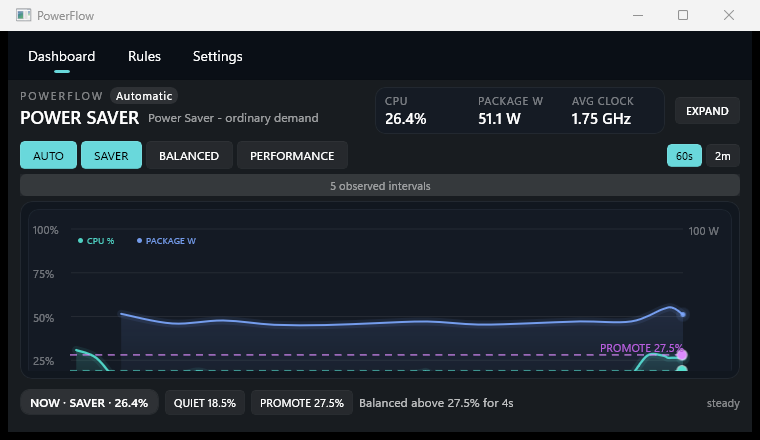
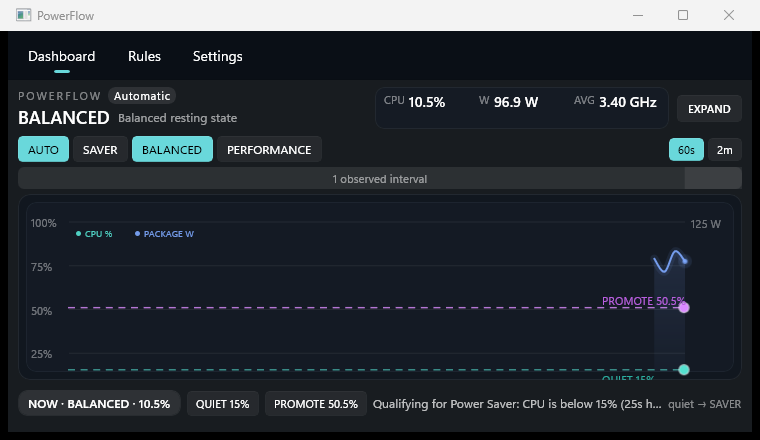
docs: show PowerFlow popup and fullscreen cockpit

diff --git a/docs/acceptance/reference-host-acceptance.md b/docs/acceptance/reference-host-acceptance.md
@@ -1,98 +1,137 @@
-# reference-host acceptance - 2026-09-09
+# reference-host acceptance — 2026-09-09
 
 ## Candidate
 
-- Current code-under-test commit: `b40fdc4` (`feat: add progressive PowerFlow presentation shell`)
+- Code under test: `84bdc98` — `feat: make PowerFlow shell fluid and fullscreen`
 - Branch: `master`
 - Build: Release x64, unpackaged WinUI 3
 - Machine: reference-host
 
 ## Automated gate
 
-Current full regression after the progressive-shell change:
+Final regression on the exact responsive/full-screen code:
 
 - PowerFlow.Core.Tests: 13 passed, 0 failed
 - PowerFlow.Windows.Tests: 29 passed, 0 failed
-- PowerFlow.App.Tests: 127 passed, 0 failed
-- Total: 169 passed, 0 failed
-- Release build: 0 warnings, 0 errors
+- PowerFlow.App.Tests: 137 passed, 0 failed
+- **Total: 179 passed, 0 failed**
+- Release build: **0 warnings, 0 errors**
 - `git diff --check`: clean
 
-The new presentation contract was developed RED -> GREEN: 4 new tests initially failed against the fixed-size shell and now pass.
+The responsive work was test-driven. The new RED contract failed because `DashboardResponsiveLayout` and `DashboardPresentationMode.FullScreen` did not exist. After implementation, targeted responsive/presentation/startup tests passed, followed by the complete suite above.
+
+## Responsive presentation acceptance
+
+The previous beta had distinct compact and expanded sizes, but did not genuinely reflow enough content within a mode. This candidate replaces that with `DashboardResponsiveLayout.Resolve(width, height, fullScreenPresenter)`.
+
+Live Win32 resize acceptance exercised the real Release window at:
+
+1. 760 × 440
+2. 980 × 620
+3. 1120 × 720
+4. 1320 × 820
+5. 1600 × 900
+
+Every requested size was observed exactly and the process remained alive throughout. The layout engine changes graph minimum height, reason width, panel padding, header/context spacing, telemetry presentation, typography, hover-lens width, and disclosure density from the actual dimensions rather than only switching between two fixed compositions.
+
+The pure layout tests additionally prove that 980 × 620 and 1320 × 820 are both `Expanded`, while the larger size receives larger graph, reason-width, and padding values. Large manual windows can reach full-density presentation without forcing the full-screen presenter.
+
+## Four connected levels
+
+### 1. Tray hover
+
+- real `TrayHoverWindow` shown through the normal `ShowAsync` path;
+- release preview waits for the actual `Shell_NotifyIconGetRect` icon rectangle and uses its real monitor work area;
+- visible PID-owned HWND: `265710`;
+- measured size: **320 × 176**;
+- direct `PrintWindow` capture: `docs/assets/powerflow-popup.png`;
+- PNG size: 11,745 bytes;
+- sampled unique colors: 73 (nonblank check).
+
+### 2. Compressed
+
+- measured size: **760 × 440**;
+- direct PowerFlow HWND capture: `docs/assets/powerflow-compressed.png`;
+- captured HWND during acceptance: `11600966`;
+- compact telemetry strip is used instead of shrinking the expanded metric card;
+- all explicitly sized visible text remains at least 11 px.
+
+### 3. Expanded
+
+- canonical working size remains **1120 × 720**;
+- presentation is fluid rather than fixed: intermediate and larger dimensions continuously alter the layout profile;
+- the same trajectory, NOW state, policy nodes, and context vocabulary remain anchored.
+
+### 4. Full screen
+
+- entered through `AppWindow.SetPresenter(AppWindowPresenterKind.FullScreen)`;
+- measured window rectangle: **1920 × 1080 at (0,0)**;
+- direct PowerFlow HWND capture: `docs/assets/powerflow-fullscreen.png`;
+- captured HWND during acceptance: `5769704`;
+- PNG size: 51,695 bytes;
+- sampled nonblank validation passed;
+- full-density context becomes visible instead of simply stretching the expanded layout.
+
+## Screenshot integrity
+
+The earlier beta.2 screenshot evidence was invalid because it used screen-coordinate capture. Beta.3 corrected that problem for dashboard captures. This candidate extends the rule to every release image:
+
+- identify the PowerFlow process;
+- identify a visible HWND owned by that PID;
+- verify the expected window dimensions;
+- capture the HWND directly with `PrintWindow(PW_RENDERFULLCONTENT)`;
+- validate the resulting PNG is nonblank.
+
+No release screenshot in the current README depends on desktop coordinates.
+
+## Runtime stability
+
+During the live responsive/full-screen acceptance run:
+
+- Windows Application/.NET/WER PowerFlow crash events: **0**;
+- the process survived all five manual resize points;
+- true full-screen capture completed successfully.
+
+The prior user-observed “crash” after an older acceptance run was separately proven to be an operator-induced process replacement during worktree cleanup, not an independent PowerFlow crash.
 
 ## WinUI crash regression
 
-Earlier runtime failures in `Microsoft.UI.Xaml.dll` were traced to dynamic drawing code directly indexing theme resource dictionaries.
+Earlier `Microsoft.UI.Xaml.dll` crashes were traced to dynamic drawing code directly indexing theme resource dictionaries.
 
 Regression proof:
 
-1. Detached pre-fix commit `2d07b61` + safety tests: 2 failed, 0 passed.
-2. Named XAML brush sources: 2 passed, 0 failed.
-3. Full suite passed afterward.
+1. detached pre-fix commit `2d07b61` plus safety tests: 2 failed, 0 passed;
+2. named XAML brush sources: 2 passed, 0 failed;
+3. full suite passed afterward.
 
 Fix commit: `30e7fc2`.
 
-## Process-disappearance clarification
-
-A user-observed app disappearance immediately after the earlier acceptance run was not an independent PowerFlow crash. The final hygiene migration job intentionally stopped the old feature-worktree process and restarted PowerFlow from the `master` worktree. Post-migration Windows Application/.NET/WER crash-event count was 0.
-
-## Progressive presentation acceptance
-
-The Release executable was started tray-first and the dashboard opened through the single-instance relay.
-
-Live measured states:
-
-- compressed open: 760 x 440;
-- expanded resize: 1120 x 720;
-- collapse: 760 x 440;
-- compressed screenshot: `docs/assets/powerflow-compressed.png`;
-- expanded screenshot: `docs/assets/powerflow-expanded.png`;
-- new Application/.NET/WER PowerFlow crash events during the transition run: 0.
-
-The UI source contract also fixes the tray-hover instrument to 320 x 176 and removes the previous dedicated three-column telemetry band in favor of one compact telemetry line plus the same trajectory vocabulary.
-
 ## Telemetry semantics
 
-The dashboard's frequency source is `CallNtPowerInformation(SystemProcessorPowerInformation)` averaged across active processors. Independent Windows telemetry on reference-host reported the same value at validation time:
+`AVG CLOCK` comes from `CallNtPowerInformation(SystemProcessorPowerInformation)` averaged across active processors. During validation, independent Windows sources both reported 1746 MHz:
 
 - `Win32_Processor.CurrentClockSpeed`: 1746 MHz;
-- `Processor Information(_Total)\\Processor Frequency`: 1746 MHz;
-- PowerFlow source: average `CurrentMhz` from the same processor-power state family.
+- `Processor Information(_Total)\Processor Frequency`: 1746 MHz.
 
-The UI now labels the value `AVG CLOCK` to distinguish it from per-core peak/boost frequency.
+The label intentionally says `AVG CLOCK`; it is not a fastest-core boost-clock claim.
 
 ## Native power-plan acceptance
 
-The exact production `PowerFlow.Windows.Power.WindowsPowerPlanController` was loaded from the Release build.
+The exact production `PowerFlow.Windows.Power.WindowsPowerPlanController` was loaded from the Release build:
 
-1. Original: Power Saver (`a1841308-3541-4fab-bc81-f71556f20b4a`).
-2. `ActivateAsync(Balanced)` succeeded and Windows independently reported Balanced (`381b4222-f694-41f0-9685-ff5bb260df2e`).
-3. `ActivateAsync(PowerSaver)` succeeded and Windows independently reported Power Saver (`a1841308-3541-4fab-bc81-f71556f20b4a`).
+1. original active scheme: Power Saver (`a1841308-3541-4fab-bc81-f71556f20b4a`);
+2. `ActivateAsync(Balanced)` succeeded and Windows independently reported Balanced (`381b4222-f694-41f0-9685-ff5bb260df2e`);
+3. `ActivateAsync(PowerSaver)` succeeded and Windows independently reported Power Saver again.
 
-This verifies that normal-mode commands reach a real, verified Windows scheme switch. Preview mode remains deliberately non-mutating.
+Normal mode therefore reaches a real, independently verified Windows scheme switch. `--preview` remains deliberately non-mutating.
 
-## Remaining release-hardening work
+## Remaining production-hardening work
 
-Not claimed by this acceptance record:
+Not claimed by this beta:
 
 - 120-second controller-off vs controller-on package-power baseline;
 - 120-second hidden Game Latch overhead measurement;
 - real-game frame-time correlation/soak;
 - signed installer/package.
 
-These remain production-hardening gates, not hidden claims.
-## Screenshot evidence correction
-
-The first progressive-shell screenshots were captured with screen-coordinate `CopyFromScreen`, which did **not** prove the pixels came from the PowerFlow window and, in practice, captured the wrong content. Those files must not be treated as valid release evidence.
-
-They were replaced on 2026-09-09 using direct HWND capture:
-
-- process: `PowerFlow.App.exe`;
-- verified executable: Release `PowerFlow.App.exe` under this repository;
-- window title: `PowerFlow`;
-- HWND at capture: `10552990`;
-- compressed direct capture: 760 x 440, nonblank;
-- expanded direct capture: 1120 x 720, nonblank;
-- capture API: `PrintWindow` on the verified PowerFlow HWND, not screen coordinates.
-
-This correction preserves the earlier beta.2 tag as historical evidence and supersedes only its screenshot proof.
+Those remain production-hardening gates, not README magic tricks.

diff --git a/README.md b/README.md
@@ -4,7 +4,9 @@
 
 PowerFlow is a tiny, tray-first Windows power-plan traffic cop. **Saver sips. Balanced cruises. Performance gets the green light.** Games can hold Performance until they actually leave, while ordinary desktop use settles back down without turning your power plan into a metronome.
 
-![PowerFlow compressed dashboard](docs/assets/powerflow-compressed.png)
+![PowerFlow tray hover](docs/assets/powerflow-popup.png)
+
+*Tiny when it should be tiny. The tray hover is the glanceable instrument, not a dashboard wearing a fake moustache.*
 
 > [!WARNING]
 > **Vibe Coding Alert:** AI was absolutely in the loop. The power-plan decisions are not powered by vibes. The current build has deterministic policy tests, a red-to-green regression proof for the last WinUI crash, a clean Release build, native plan-switch verification, and a live tray/dashboard acceptance run. Vibes proposed. Tests disposed.
@@ -25,18 +27,22 @@ PowerFlow lives in the tray. The full dashboard only appears when invited.
 
 The dashboard is trajectory-first: recent behavior, **NOW**, policy pressure, thresholds, and actual state transitions share one compact field. Hover gives local detail. Click expands context in place. Rules and settings stay out of the way until you ask for them.
 
-### Three levels, one instrument
+### Four levels, one instrument
 
-- **Hover glance - 320 x 176.** Tiny, non-activating, and just enough: state, one telemetry line, trajectory, next action.
-- **Compressed - 760 x 440.** The default working instrument. Same trajectory and policy anchors, readable rather than miniaturized.
-- **Expanded - 1120 x 720.** The same instrument grows into a full cockpit with richer context, Rules, and Settings. No surprise card-wall sequel.
+PowerFlow no longer treats responsive design as “pick one of two rectangles and hope.” The same trajectory/state/policy instrument continuously reflows as real window space changes:
 
-![PowerFlow expanded cockpit](docs/assets/powerflow-expanded.png)
+- **Hover glance — 320 × 176.** Non-activating and deliberately tiny: state, one telemetry line, mini trajectory, next action.
+- **Compressed — 760 × 440.** The default working instrument. Compact telemetry replaces the larger metric card; secondary context stays out of the way.
+- **Expanded — fluid, with 1120 × 720 as the canonical working size.** Padding, graph height, reason width, typography, hover-lens width, and context spacing grow continuously with the actual window. Dragging from 980 × 620 through 1320 × 820 is not a binary layout swap.
+- **Full screen — a real WinUI full-screen presenter.** The same instrument grows to full-density context rather than stretching empty chrome. On the acceptance machine it occupies 1920 × 1080.
 
-_Screenshots are captured directly from the PowerFlow window handle, not from screen coordinates._
+![PowerFlow compressed dashboard](docs/assets/powerflow-compressed.png)
 
-Compressed and expanded modes evolve through a short bounded resize/content transition. Reduced Motion turns the flourish off without changing the information hierarchy. Manual resizing maps onto the same two dashboard modes.
+![PowerFlow full-screen cockpit](docs/assets/powerflow-fullscreen.png)
 
+_Screenshots are captured with `PrintWindow` from PID-owned PowerFlow HWNDs. No desktop-coordinate crop cosplay._
+
+The **EXPAND → FULL SCREEN → RESTORE** path uses the same responsive layout engine throughout. Manual resizing also feeds the same engine on every size change. Reduced Motion removes the flourish, not the information hierarchy.
 Telemetry also survives a closed dashboard without becoming its own space heater:
 
 - visible dashboard or tray instrument: **1 second** rich telemetry cadence;
@@ -104,12 +110,15 @@ The UI exposes resting state, CPU promotion/quiet thresholds and hold times, gam
 
 The September 9, 2026 candidate passed:
 
-- **169/169 automated tests** across Core, Windows, and App;
+- **179/179 automated tests** across Core, Windows, and App;
 - Release build with **0 warnings / 0 errors**;
 - WinUI dynamic-theme crash regression proven **red -> green** against the pre-fix commit;
 - real production `WindowsPowerPlanController` switch **Power Saver -> Balanced -> Power Saver**, with Windows confirming each active GUID;
 - hidden startup with **no dashboard window**;
-- dashboard opens compressed at **760 x 440**, evolves to **1120 x 720** expanded, and collapses cleanly back to **760 x 440**;
+- live responsive matrix verified at **760 × 440, 980 × 620, 1120 × 720, 1320 × 820, and 1600 × 900**;
+- real full-screen presenter verified at **1920 × 1080**;
+- real tray-hover popup verified at **320 × 176**;
+- popup, compressed, and full-screen release images captured directly from PowerFlow-owned HWNDs;
 - **0 new PowerFlow crash events** during the live acceptance run;
 - exactly **one** background PowerFlow process afterward.
 
